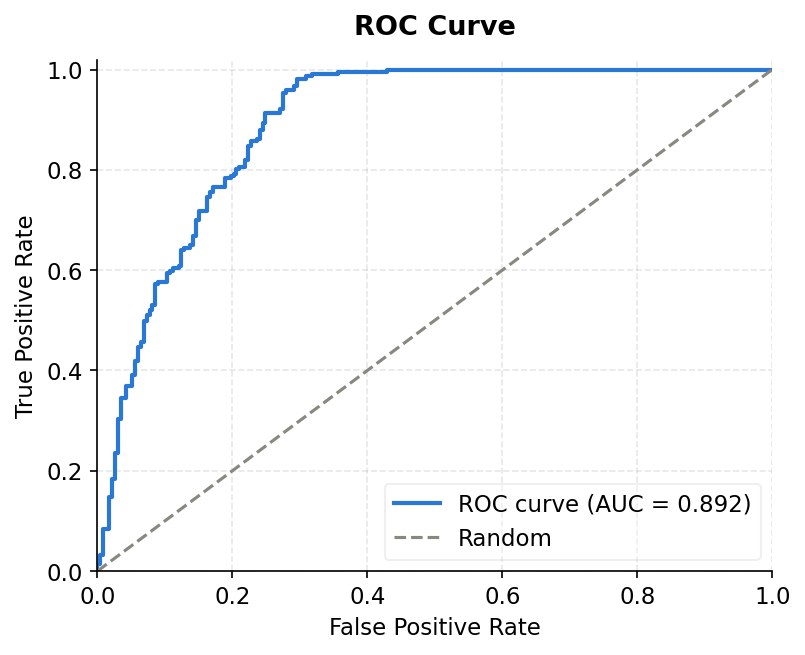
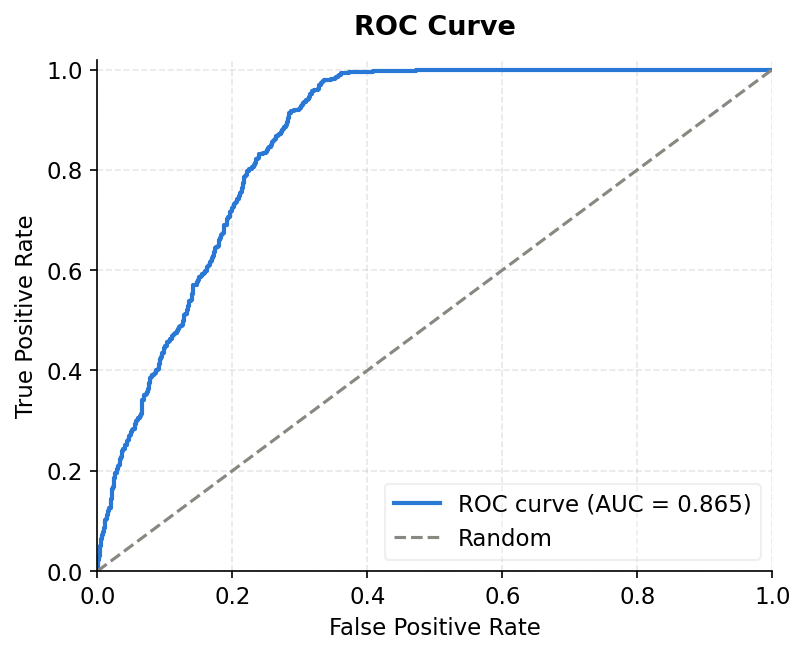
Update

diff --git a/results/dashboard.html b/results/dashboard.html
@@ -25,19 +25,19 @@
 
 <div class="grid4">
   <div class="card" style="text-align:center">
-    <div class="metric-val blue">83.3%</div>
+    <div class="metric-val blue">81.4%</div>
     <div class="metric-lbl">Accuracy</div>
   </div>
   <div class="card" style="text-align:center">
-    <div class="metric-val orange">0.831</div>
+    <div class="metric-val orange">0.812</div>
     <div class="metric-lbl">Macro F1</div>
   </div>
   <div class="card" style="text-align:center">
-    <div class="metric-val blue">0.865</div>
+    <div class="metric-val blue">0.844</div>
     <div class="metric-lbl">Macro Precision</div>
   </div>
   <div class="card" style="text-align:center">
-    <div class="metric-val orange">0.839</div>
+    <div class="metric-val orange">0.819</div>
     <div class="metric-lbl">Macro Recall</div>
   </div>
 </div>
@@ -48,7 +48,7 @@
 </div>
 
 <div class="grid3">
-  <div class="card"><h2>ROC curve (AUC = 0.892)</h2><img src="roc_curve.png"></div>
+  <div class="card"><h2>ROC curve (AUC = 0.865)</h2><img src="roc_curve.png"></div>
   <div class="card"><h2>Training loss</h2><img src="loss_curve.png"></div>
   <div class="card"><h2>Dataset distribution</h2><img src="class_distribution.png"></div>
 </div>

diff --git a/step1.5_visualization.py b/step1.5_visualization.py
@@ -24,7 +24,7 @@ MODEL_NAME = "distilbert-base-uncased"
 MODEL_PATH = "model.pt"
 MAX_LEN    = 128
 BATCH      = 32
-SAMPLE     = 3000
+SAMPLE     = None
 DEVICE     = "cuda" if torch.cuda.is_available() else "cpu"
 
 BLUE   = "#2a78d6"
